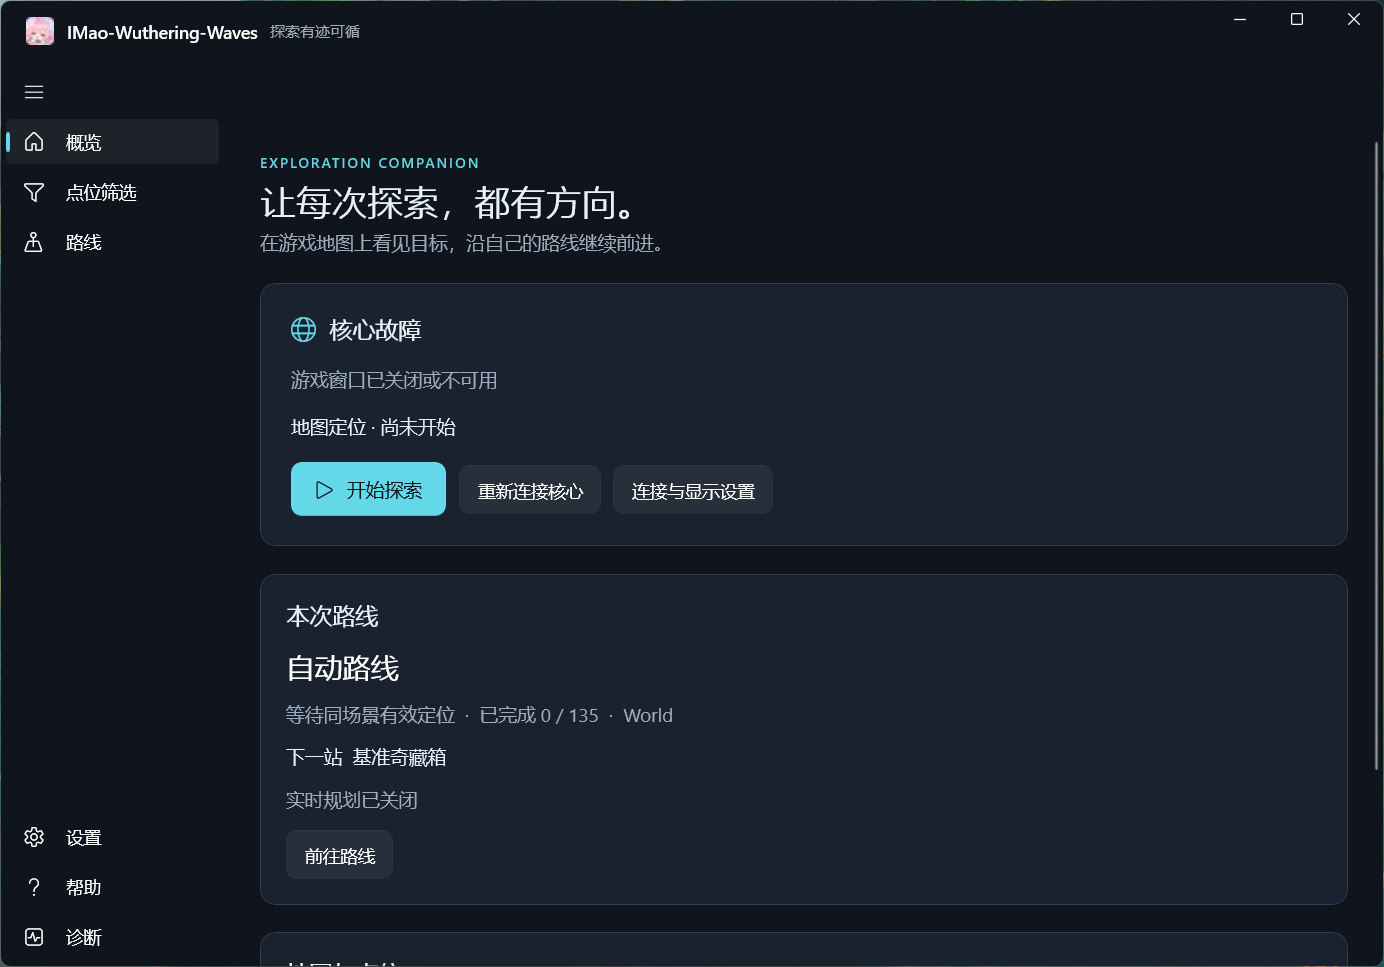
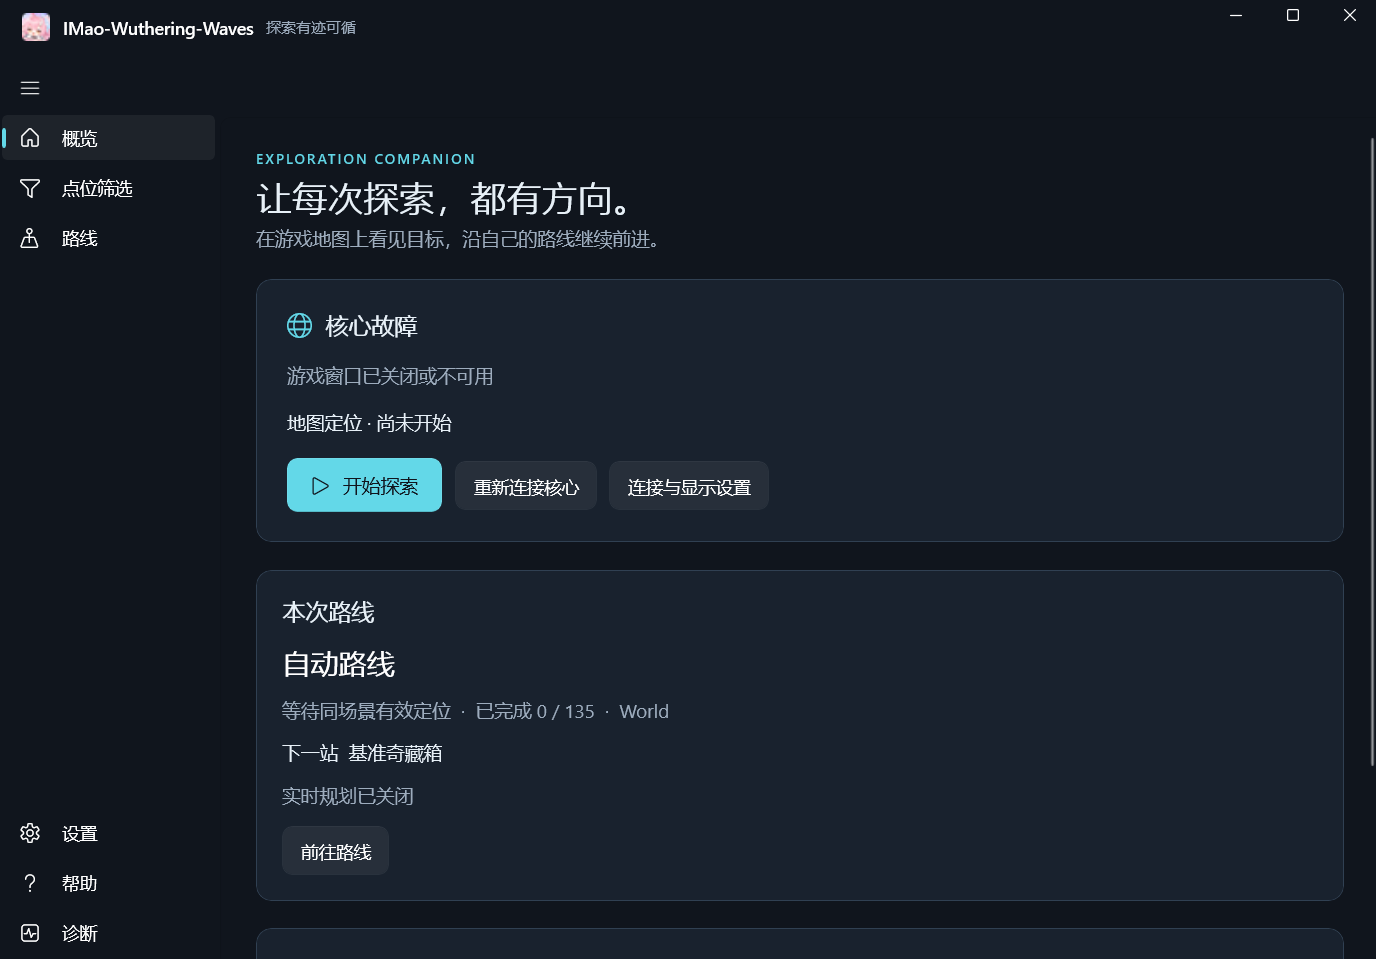
Trim the capture bleed off the README window shot and point links at the renamed repo
The window screenshot still carried a 1px ring of desktop plus the window's rounded corners; both are gone with a 4px per-side crop, measured from the corner arc profile. The repository is now kahvia-d/IMAO, so the badges, Releases and Issues links use the canonical slug.

diff --git a/README.en.md b/README.en.md
@@ -10,12 +10,12 @@
 
 <div>
     <img alt="platform" src="https://img.shields.io/badge/platform-Windows%20x64-blueviolet">
-    <img alt="license" src="https://img.shields.io/github/license/kahvia-d/WWMAP-TOOLS">
+    <img alt="license" src="https://img.shields.io/github/license/kahvia-d/IMAO">
 </div>
 <div>
-    <img alt="GitHub release" src="https://img.shields.io/github/v/release/kahvia-d/WWMAP-TOOLS?color=%2343e28a">
-    <img alt="GitHub all releases" src="https://img.shields.io/github/downloads/kahvia-d/WWMAP-TOOLS/total?style=social">
-    <img alt="GitHub Repo stars" src="https://img.shields.io/github/stars/kahvia-d/WWMAP-TOOLS?style=social">
+    <img alt="GitHub release" src="https://img.shields.io/github/v/release/kahvia-d/IMAO?color=%2343e28a">
+    <img alt="GitHub all releases" src="https://img.shields.io/github/downloads/kahvia-d/IMAO/total?style=social">
+    <img alt="GitHub Repo stars" src="https://img.shields.io/github/stars/kahvia-d/IMAO?style=social">
 </div>
 <br>
 
@@ -34,7 +34,7 @@ Still actively updated ✿✿ヽ(°▽°)ノ✿
 
 ## Download & Install
 
-Go to **[Releases](https://github.com/kahvia-d/WWMAP-TOOLS/releases/latest)**, download
+Go to **[Releases](https://github.com/kahvia-d/IMAO/releases/latest)**, download
 `IMao-v<version>-windows-x64.zip`, unzip it and run **`IMao-Launcher.exe`**.
 
 | Item | Requirement |
@@ -252,7 +252,7 @@ Thanks to everyone who developed, tested and reported issues — you are what ma
 **User QQ group: `1109700733`**
 
 Bugs, feature requests, or just somewhere to talk about Wuthering Waves — you are welcome to join.
-You can also file an [issue](https://github.com/kahvia-d/WWMAP-TOOLS/issues).
+You can also file an [issue](https://github.com/kahvia-d/IMAO/issues).
 
 If this tool helped you, **please give it a Star** — it is the biggest support you can give us!
 

diff --git a/README.md b/README.md
@@ -10,12 +10,12 @@
 
 <div>
     <img alt="platform" src="https://img.shields.io/badge/platform-Windows%20x64-blueviolet">
-    <img alt="license" src="https://img.shields.io/github/license/kahvia-d/WWMAP-TOOLS">
+    <img alt="license" src="https://img.shields.io/github/license/kahvia-d/IMAO">
 </div>
 <div>
-    <img alt="GitHub release" src="https://img.shields.io/github/v/release/kahvia-d/WWMAP-TOOLS?color=%2343e28a">
-    <img alt="GitHub all releases" src="https://img.shields.io/github/downloads/kahvia-d/WWMAP-TOOLS/total?style=social">
-    <img alt="GitHub Repo stars" src="https://img.shields.io/github/stars/kahvia-d/WWMAP-TOOLS?style=social">
+    <img alt="GitHub release" src="https://img.shields.io/github/v/release/kahvia-d/IMAO?color=%2343e28a">
+    <img alt="GitHub all releases" src="https://img.shields.io/github/downloads/kahvia-d/IMAO/total?style=social">
+    <img alt="GitHub Repo stars" src="https://img.shields.io/github/stars/kahvia-d/IMAO?style=social">
 </div>
 <br>
 
@@ -33,7 +33,7 @@
 
 ## 下载与安装
 
-前往 **[Releases](https://github.com/kahvia-d/WWMAP-TOOLS/releases/latest)** 下载 `IMao-v<版本号>-windows-x64.zip`，
+前往 **[Releases](https://github.com/kahvia-d/IMAO/releases/latest)** 下载 `IMao-v<版本号>-windows-x64.zip`，
 解压后运行 **`IMao-Launcher.exe`** 即可。
 
 | 项目 | 要求 |
@@ -225,7 +225,7 @@
 **用户交流 QQ 群：`1109700733`**
 
 遇到 Bug、想要新功能，或者只是想找个地方聊鸣潮，都欢迎进群；也欢迎到
-[Issues](https://github.com/kahvia-d/WWMAP-TOOLS/issues) 反馈。
+[Issues](https://github.com/kahvia-d/IMAO/issues) 反馈。
 
 如果这个工具帮到了你，**帮忙点个 Star 吧**！~（网页右上角的小星星）这就是对我们最大的支持了！
 
